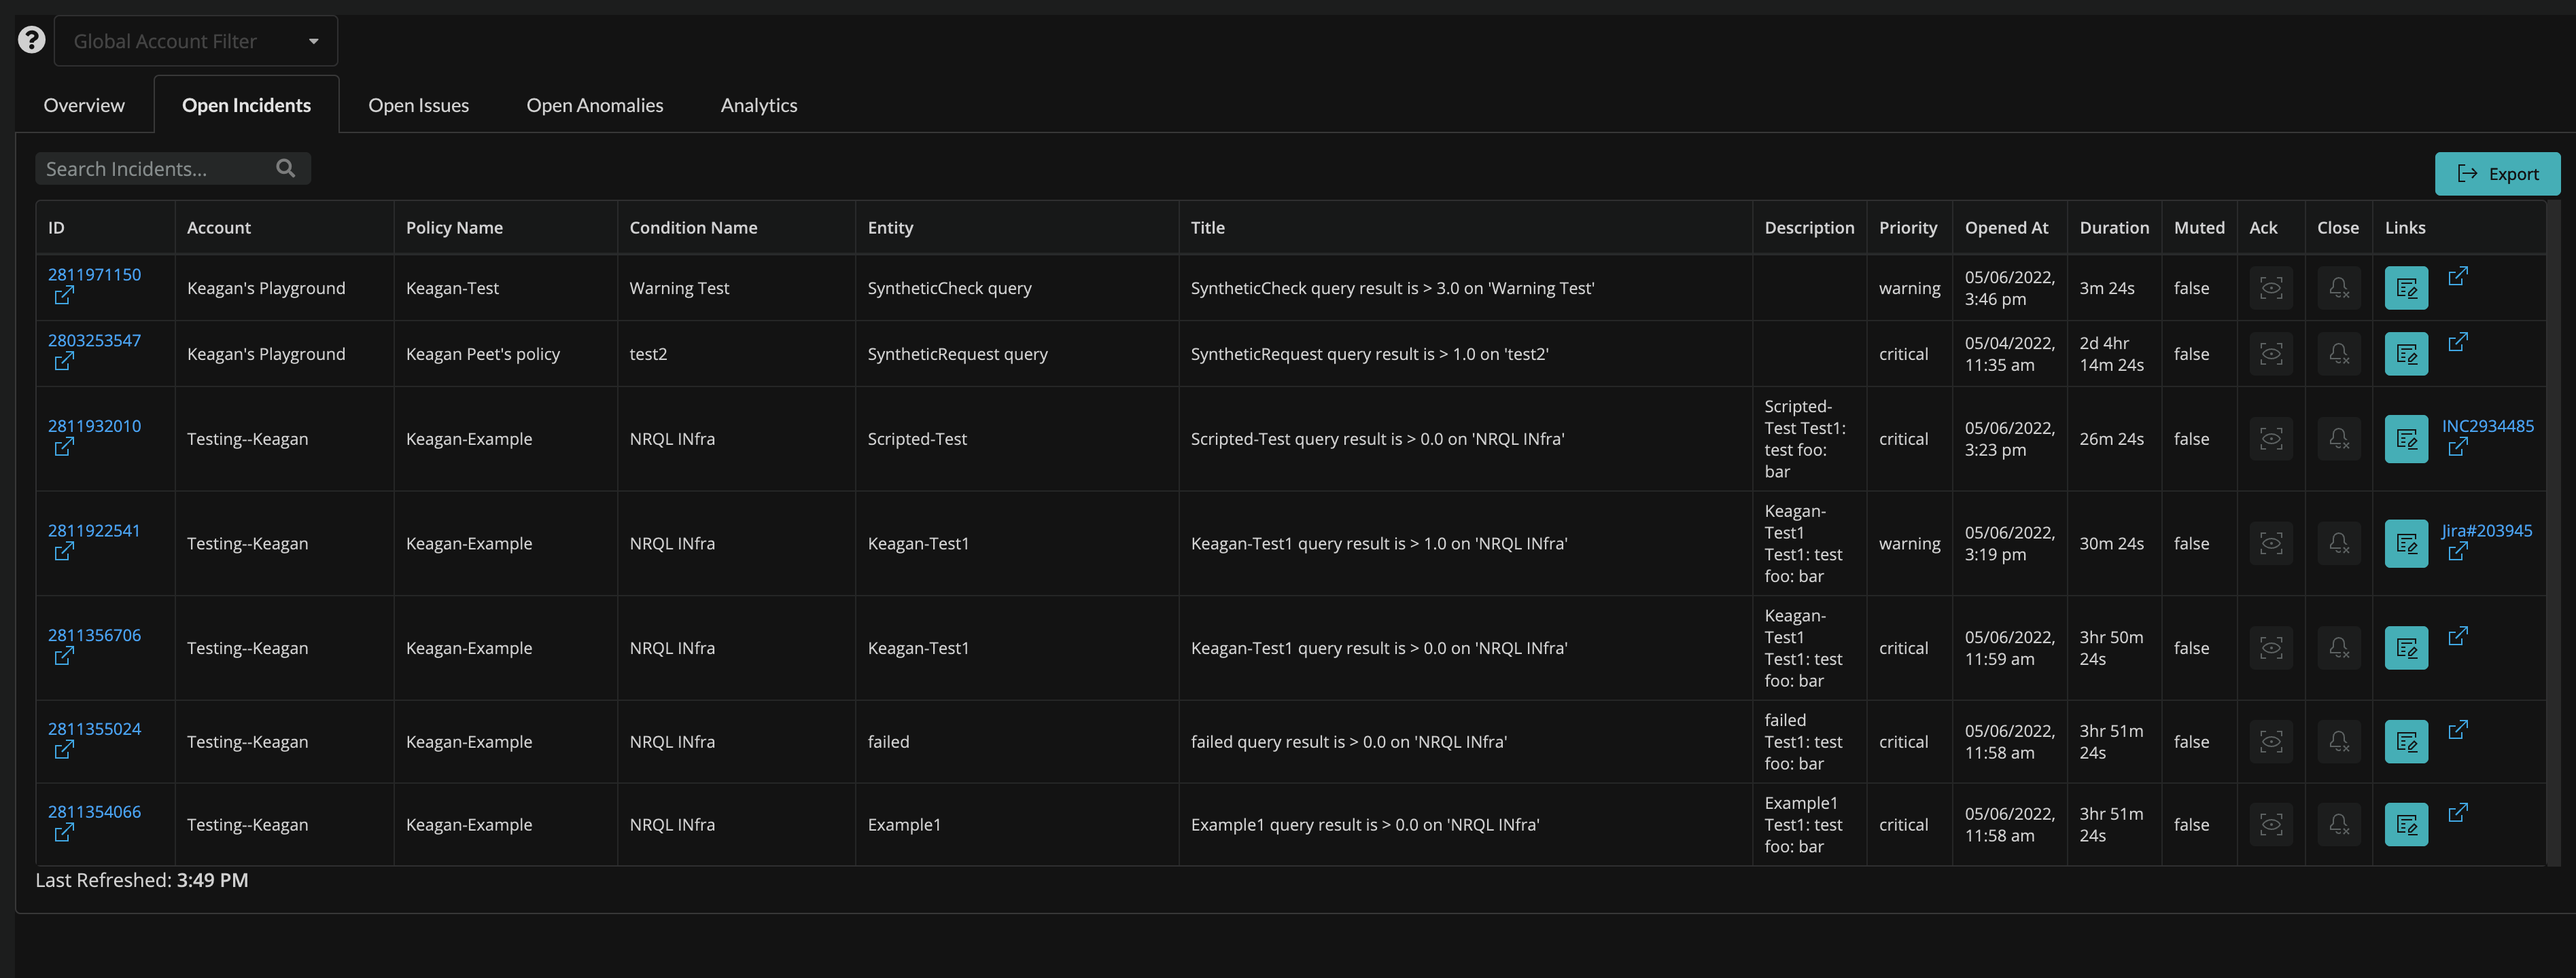
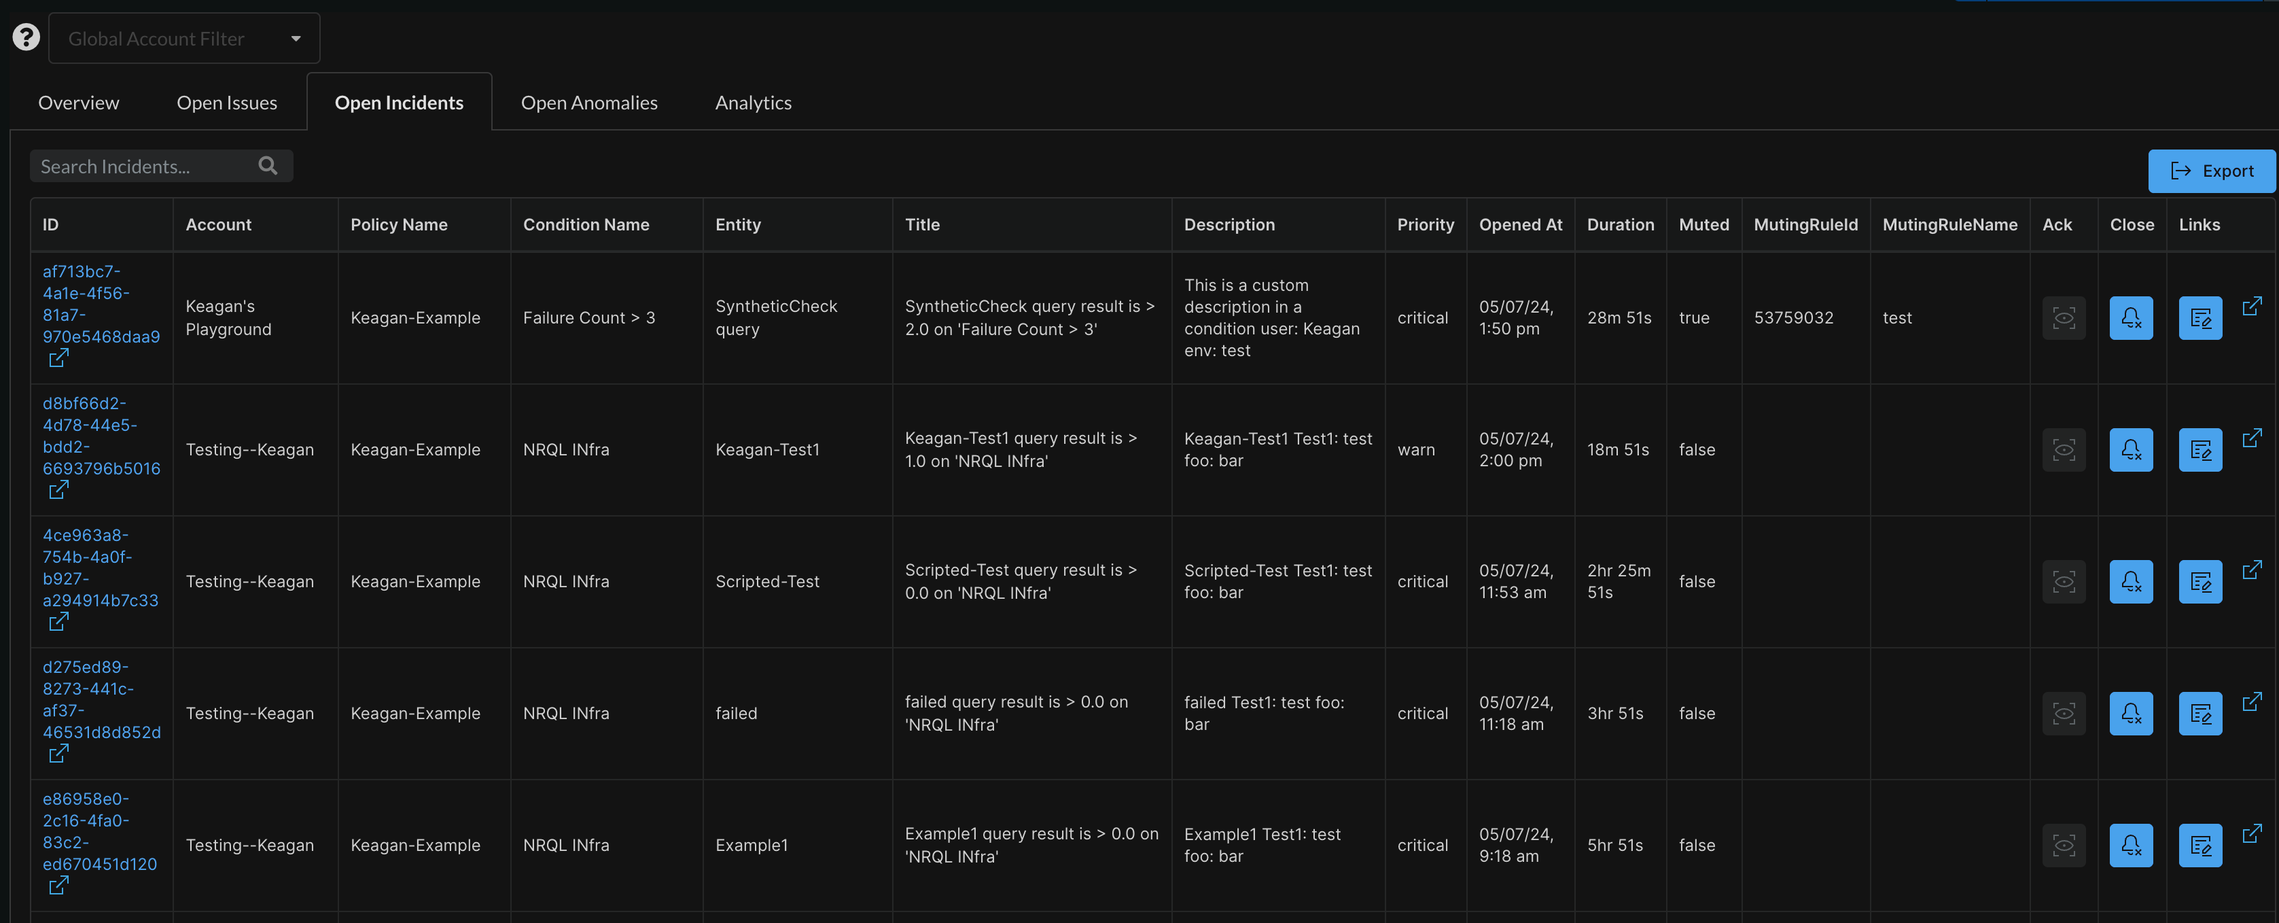
feature: add muted count/muting details to incidents page

diff --git a/nerdlets/command-center-v2-nerdlet/splash.js b/nerdlets/command-center-v2-nerdlet/splash.js
@@ -97,11 +97,17 @@ export default class Splash extends React.Component {
               return priorityObj.values[0] == 'HIGH';
             }).length;
 
+            let mutedCount = anAccountsIssues.filter(issue => {
+              let priorityObj = issue.tags.find(k => k.key == 'mutingState');
+              return priorityObj.values[0] == 'FULLY_MUTED';
+            }).length;
+
             let anAccount = {
               account: acct.name,
               id: acct.id,
               high: highCount,
-              critical: criticalCount
+              critical: criticalCount,
+              muted: mutedCount
             };
 
             return anAccount;
@@ -182,7 +188,8 @@ export default class Splash extends React.Component {
       e.target.textContent == 'Critical' ||
       e.target.textContent == 'High' ||
       e.target.textContent == 'Healthy' ||
-      e.target.textContent == 'Anomalies'
+      e.target.textContent == 'Anomalies' ||
+      e.target.textContent == 'Muted'
     ) {
       this.sortByStatus(e.target.textContent);
     }
@@ -212,6 +219,10 @@ export default class Splash extends React.Component {
       );
     }
 
+    if (statusText == 'Muted') {
+      cardsByStatus = _.orderBy(cardsByStatus, ['muted'], ['desc']);
+    }
+
     this.setState({
       cardData: cardsByStatus,
       sortDisplay: statusText
@@ -220,7 +231,7 @@ export default class Splash extends React.Component {
 
   renderSortDropdown() {
     const { sortDisplay } = this.state;
-    const sortItems = ['A-Z', 'Z-A', 'Critical', 'High', 'Anomalies', 'Healthy'];
+    const sortItems = ['A-Z', 'Z-A', 'Critical', 'High', 'Muted', 'Anomalies', 'Healthy'];
 
     return (
       <div className="sortBy">
@@ -320,6 +331,12 @@ export default class Splash extends React.Component {
                           {card.high == undefined ? 0 : card.high}
                         </Statistic.Value>
                         <Statistic.Label>High</Statistic.Label>
+                      </Statistic>
+                      <Statistic size="mini" color={this.getCardColor(card)}>
+                        <Statistic.Value>
+                          {card.muted == undefined ? 0 : card.muted}
+                        </Statistic.Value>
+                        <Statistic.Label>Muted</Statistic.Label>
                       </Statistic>
                       <Statistic size="mini" color={this.getCardColor(card)}>
                         <Statistic.Value>

diff --git a/nerdlets/command-center-v2-nerdlet/open-violations.js b/nerdlets/command-center-v2-nerdlet/open-violations.js
@@ -108,7 +108,9 @@ export default class OpenIncidents extends React.Component {
             'Opened At': moment(formattedTable[k].openTime).format(
               'MM/DD/YYYY, h:mm a'
             ),
-            Muted: formattedTable[k].muted.toString()
+            Muted: formattedTable[k].muted.toString(),
+            MutingRuleId: formattedTable[k].mutingRuleId == null ? null : formattedTable[k].mutingRuleId,
+            MutingRuleName: formattedTable[k].mutingRuleName == null ? null : formattedTable[k].mutingRuleName
           };
           let noteDisplay = null;
           let noteLink = null;
@@ -264,6 +266,12 @@ export default class OpenIncidents extends React.Component {
         break;
       case 'Muted':
         translated = 'muted';
+        break;
+      case 'MutingRuleId':
+        translated = 'mutingRuleId';
+        break;
+      case 'MutingRuleName':
+        translated = 'mutingRuleName'
         break;
     }
 
@@ -605,6 +613,8 @@ export default class OpenIncidents extends React.Component {
       'Opened At',
       'Duration',
       'Muted',
+      'MutingRuleId',
+      'MutingRuleName',
       'Ack',
       'Close',
       'Links'
@@ -680,6 +690,8 @@ export default class OpenIncidents extends React.Component {
                       : ''}
                   </Table.Cell>
                   <Table.Cell>{row.muted.toString()}</Table.Cell>
+                  <Table.Cell>{row.mutingRuleId == null ? '' : row.mutingRuleId}</Table.Cell>
+                  <Table.Cell>{row.mutingRuleName == null ? '' : row.mutingRuleName}</Table.Cell>
                   <Table.Cell>
                     <Button
                       disabled

diff --git a/nerdlets/command-center-v2-nerdlet/utils.js b/nerdlets/command-center-v2-nerdlet/utils.js
@@ -80,7 +80,7 @@ module.exports = {
     {
       actor {
         account(id: ${account}) {
-          nrql(query: "FROM NrAiIncident SELECT incidentId, account.id, title, targetName, policyName, conditionName, openTime, priority, muted, incidentLink, description where incidentId IN (${vios}) and event = 'open' LIMIT MAX ${time}") {
+          nrql(query: "FROM NrAiIncident SELECT incidentId, account.id, title, targetName, policyName, conditionName, openTime, priority, muted, mutingRuleId, mutingRuleName, incidentLink, description where incidentId IN (${vios}) and event = 'open' LIMIT MAX ${time}") {
             results
           }
         }
